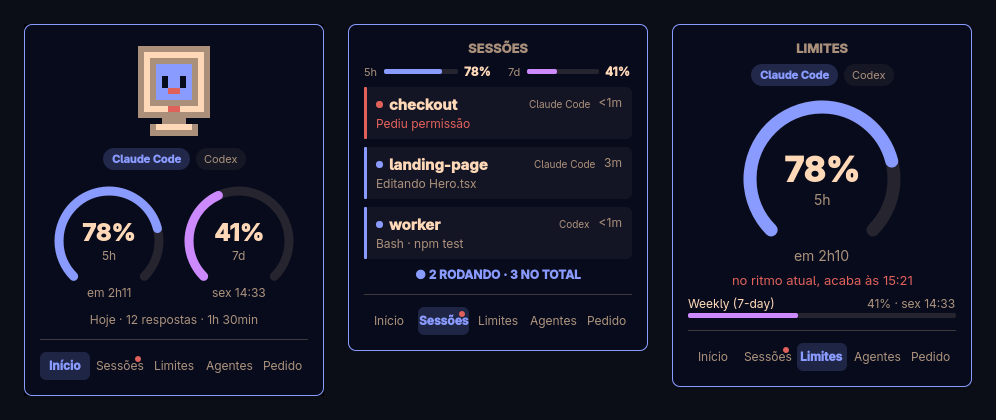
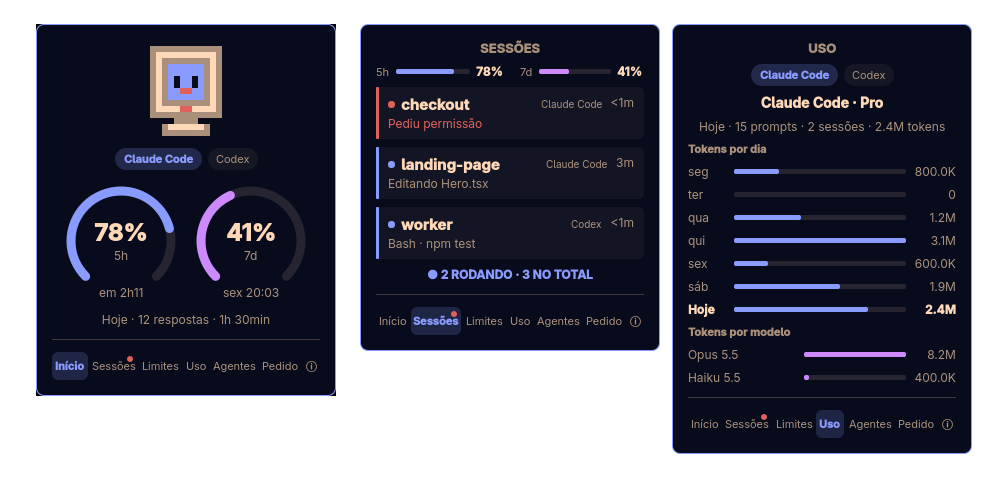
feat: renomeie para Retro Agent Pet e adicione a aba Sobre (0.2.0)
Outro plugin "Agent Pet" já está no marketplace do Omarchy; o nome visível
e o repositório mudam, o id continua o mesmo. A aba Sobre (ⓘ) lê nome,
versão, autor, licença e links do manifest e mostra os créditos.

diff --git a/Panel.qml b/Panel.qml
@@ -19,12 +19,14 @@ Panel {
   readonly property string configPath: (Quickshell.env("XDG_CONFIG_HOME") || home + "/.config") + "/agent-pet/config.json"
   property var config: ({})
   readonly property var hiddenAgents: Array.isArray(config.hidden_agents) ? config.hidden_agents : []
-  // Tela do painel: home, sessions, limits, usage, agents ou attention
+  // Tela do painel: home, sessions, limits, usage, agents, attention ou about
   property string screen: "home"
   property var sessionFiles: []
   property var sessions: []
   property var usageRecords: []
   property var daily: ({ date: "", completed_responses: 0, active_seconds: 0 })
+  // Nome, versão, autor, licença e link da tela Sobre
+  property var manifest: ({})
   property double nowMs: Date.now()
 
   readonly property color foreground: bar ? bar.foreground : Commons.Color.foreground
@@ -114,6 +116,14 @@ Panel {
     onLoaded: {
       try { root.daily = JSON.parse(String(text() || "{}")) }
       catch (error) { root.daily = ({ date: "", completed_responses: 0, active_seconds: 0 }) }
+    }
+  }
+  FileView {
+    path: Qt.resolvedUrl("manifest.json").toString().replace("file://", "")
+    printErrors: false
+    onLoaded: {
+      try { root.manifest = JSON.parse(String(text() || "{}")) || ({}) }
+      catch (error) { root.manifest = ({}) }
     }
   }
   FileView {
@@ -301,6 +311,27 @@ Panel {
   // Tokens no formato do Omarchy (1.5M); sem o Main.qml, o número cru
   function tokens(count) { return root.usage ? root.usage.formatTokenCount(Number(count || 0)) : String(Number(count || 0)) }
 
+  // Linha de crédito da tela Sobre; com url, abre no navegador ou no e-mail
+  component CreditRow: RowLayout {
+    id: credit
+    required property string label
+    required property string value
+    property string url: ""
+    Layout.fillWidth: true
+    spacing: 8
+    Text { text: credit.label; color: root.dim; font.pixelSize: 12; Layout.preferredWidth: 70 }
+    Text {
+      text: credit.value
+      color: credit.url ? Commons.Color.accent : root.foreground
+      font.pixelSize: 12
+      font.underline: credit.url !== "" && link.hovered
+      elide: Text.ElideRight
+      Layout.fillWidth: true
+      HoverHandler { id: link; enabled: credit.url !== ""; cursorShape: Qt.PointingHandCursor }
+      TapHandler { enabled: credit.url !== ""; onTapped: Qt.openUrlExternally(credit.url) }
+    }
+  }
+
   // Item do menu inferior
   component MenuItem: Item {
     id: menuItem
@@ -308,12 +339,12 @@ Panel {
     required property string label
     property bool badge: false
     readonly property bool current: root.screen === target
-    // Largura pelo texto: com 6 itens, partes iguais encostariam os rótulos longos
+    // Largura pelo texto: partes iguais encostariam os rótulos longos (Sobre é só o ícone ⓘ)
     Layout.fillWidth: true
     implicitWidth: menuLabel.implicitWidth + 8
     implicitHeight: 28
     Rectangle { anchors.fill: parent; radius: 6; color: Qt.alpha(Commons.Color.accent, menuItem.current ? 0.18 : (hover.hovered ? 0.08 : 0)) }
-    Text { id: menuLabel; anchors.centerIn: parent; text: menuItem.label; color: menuItem.current ? Commons.Color.accent : root.dim; font.pixelSize: 12; font.bold: menuItem.current }
+    Text { id: menuLabel; anchors.centerIn: parent; text: menuItem.label; color: menuItem.current ? Commons.Color.accent : root.dim; font.pixelSize: 11; font.bold: menuItem.current }
     Rectangle { visible: menuItem.badge; width: 6; height: 6; radius: 3; color: root.urgent; anchors.right: parent.right; anchors.top: parent.top; anchors.margins: 4 }
     HoverHandler { id: hover; cursorShape: Qt.PointingHandCursor }
     TapHandler { onTapped: root.screen = menuItem.target }
@@ -697,6 +728,57 @@ Panel {
           Text { text: "Agentes ocultos saem das telas de início, sessões e limites."; color: root.dim; font.pixelSize: 11; wrapMode: Text.Wrap; horizontalAlignment: Text.AlignHCenter; Layout.fillWidth: true }
         }
 
+        // Sobre: créditos do autor e do projeto
+        ColumnLayout {
+          id: aboutScreen
+          visible: root.screen === "about"
+          Layout.fillWidth: true
+          spacing: 8
+          readonly property string homepage: root.manifest.homepage || ""
+          ScreenHeader { title: "Sobre" }
+          Pet {
+            Layout.alignment: Qt.AlignHCenter
+            Layout.preferredWidth: 56
+            Layout.preferredHeight: 56
+            petState: "idle"
+            inkColor: root.surface
+            outlineColor: root.dim
+            bodyColor: root.foreground
+            faceColor: Commons.Color.accent
+            accentColor: Commons.Color.accent
+            warningColor: root.urgent
+          }
+          Text { text: root.manifest.name || "Retro Agent Pet"; color: root.foreground; font.pixelSize: 16; font.bold: true; Layout.alignment: Qt.AlignHCenter }
+          Text {
+            text: ["versão " + (root.manifest.version || "?"), root.manifest.license ? "licença " + root.manifest.license : ""].filter(function(item) { return item }).join(" · ")
+            color: root.dim
+            font.pixelSize: 12
+            Layout.alignment: Qt.AlignHCenter
+          }
+          Text {
+            text: "Acompanha as sessões do Claude Code e do Codex, os pedidos de permissão, os limites e o uso de cada agente."
+            color: root.dim
+            font.pixelSize: 11
+            wrapMode: Text.Wrap
+            horizontalAlignment: Text.AlignHCenter
+            Layout.fillWidth: true
+          }
+          Rectangle { Layout.fillWidth: true; height: 1; color: root.dim; opacity: 0.2 }
+          CreditRow { label: "Criado por"; value: root.manifest.author || "Marlon Azevedo" }
+          CreditRow { label: "E-mail"; value: "foxwnobr@gmail.com"; url: "mailto:foxwnobr@gmail.com" }
+          CreditRow { visible: aboutScreen.homepage !== ""; label: "GitHub"; value: aboutScreen.homepage.split("/")[3] || ""; url: aboutScreen.homepage.split("/").slice(0, 4).join("/") }
+          CreditRow { visible: aboutScreen.homepage !== ""; label: "Projeto"; value: aboutScreen.homepage.split("/")[4] || ""; url: aboutScreen.homepage }
+          CreditRow { visible: aboutScreen.homepage !== ""; label: "Problemas"; value: "abrir uma issue"; url: aboutScreen.homepage + "/issues" }
+          Text {
+            text: "Uso e limites: coletores do widget Agents do Omarchy. Inspirado no Mupli."
+            color: root.dim
+            font.pixelSize: 11
+            wrapMode: Text.Wrap
+            horizontalAlignment: Text.AlignHCenter
+            Layout.fillWidth: true
+          }
+        }
+
         // Menu inferior
         Rectangle { Layout.fillWidth: true; height: 1; color: root.dim; opacity: 0.35 }
         RowLayout {
@@ -708,6 +790,7 @@ Panel {
           MenuItem { target: "usage"; label: "Uso" }
           MenuItem { target: "agents"; label: "Agentes" }
           MenuItem { target: "attention"; label: "Pedido"; visible: root.attention }
+          MenuItem { target: "about"; label: "ⓘ" }
         }
       }
     }

diff --git a/testes/painel/render.qml b/testes/painel/render.qml
@@ -7,7 +7,7 @@ Window {
   width: 400; height: 700; visible: true; color: "#000"
   Loader { id: loader; source: "../../Panel.qml" }
   // "tela@agente" escolhe o agente dos gráficos
-  property var screens: ["home", "sessions", "limits", "attention", "agents", "home@codex", "limits@codex", "usage", "usage@codex"]
+  property var screens: ["home", "sessions", "limits", "attention", "agents", "home@codex", "limits@codex", "usage", "usage@codex", "about"]
   readonly property string outDir: Qt.application.arguments[Qt.application.arguments.length - 1]
   property int step: 0
   // Últimos 7 dias terminando hoje
@@ -40,6 +40,8 @@ Window {
           { session_id: "b", agent: "codex", status: "working", cwd: "/x/worker", current_tool: "Bash", tool_detail: "npm test", activity_started_at: now - 20000, updated_at: now - 1 },
           { session_id: "c", status: "attention", attention_reason: "permission", cwd: "/x/checkout", current_tool: "Bash", tool_detail: "npm run migrate", activity_started_at: now - 30000, updated_at: now - 2 } ]
         p.config = ({ hidden_agents: ["fireworks"] })
+        // O FileView de teste não lê arquivos; o manifest real vem daqui
+        p.manifest = ({ name: "Retro Agent Pet", version: "0.2.0", author: "Marlon Azevedo", license: "MIT", homepage: "https://github.com/MarlonAzevedo/omarchy-retro-agent-pet" })
         p.daily = ({ completed_responses: 12, active_seconds: 5400 })
         return
       }

diff --git a/agent_pet/hooks.py b/agent_pet/hooks.py
@@ -27,6 +27,7 @@ EVENTS = {
 AGENTS = {"claude", "codex"}
 ATTENTION_NOTIFICATIONS = {"idle_prompt", "agent_needs_input"}
 DETAIL_LIMIT = 60
+APP_NAME = "Retro Agent Pet"
 FILE_TOOLS = {"Edit": "file_path", "MultiEdit": "file_path", "Write": "file_path", "Read": "file_path", "NotebookEdit": "notebook_path"}
 PATCH_FILE = re.compile(r"^\*\*\* (?:Update|Add|Delete) File: (.+)$", re.MULTILINE)
 TEXT_TOOLS = {"Bash": "command", "Grep": "pattern", "Glob": "pattern", "WebSearch": "query", "Task": "description", "Agent": "description"}
@@ -260,7 +261,7 @@ def handle_event(event, state_root=None, config_path=None, now_ms=None, agent="c
                 if _notification_enabled(config_path):
                     tool_name = event.get("tool_name") or "Claude Code"
                     cwd = event.get("cwd") or session.get("cwd") or ""
-                    notification = ["notify-send", f"Agent Pet · {tool_name}", cwd]
+                    notification = ["notify-send", f"{APP_NAME} · {tool_name}", cwd]
             elif event_name == "Notification":
                 notification_type = event.get("notification_type")
                 if notification_type == "permission_prompt":
@@ -271,7 +272,7 @@ def handle_event(event, state_root=None, config_path=None, now_ms=None, agent="c
                 if _notification_enabled(config_path):
                     notification = [
                         "notify-send",
-                        event.get("title") or "Agent Pet",
+                        event.get("title") or APP_NAME,
                         event.get("message") or "Claude Code precisa de você",
                     ]
 

diff --git a/README.md b/README.md
@@ -1,10 +1,10 @@
-# Agent Pet
+# Retro Agent Pet
 
 **A tiny retro computer on the Omarchy bar that keeps an eye on your coding agents.**
 
-![Agent Pet panel: home with usage gauges, sessions and limits](preview.png)
+![Retro Agent Pet panel: home with usage gauges, sessions and limits](preview.png)
 
-Agent Pet watches your local **Claude Code** and **Codex** sessions and shows,
+Retro Agent Pet watches your local **Claude Code** and **Codex** sessions and shows,
 at a glance, who is working, who is waiting for you and how much of each
 agent's usage limit is left. The little computer on the bar changes face with
 the state of your sessions: it works, celebrates, sleeps, and blinks red when an
@@ -30,11 +30,12 @@ A small menu at the bottom of the panel switches between:
   the requested command (`Bash: npm run migrate`) and how long it has waited.
 - **Agentes** — every agent Omarchy tracks, with a switch to hide it (and its
   sessions and gauges) from the other screens.
+- **ⓘ Sobre** — version, license and credits: author, e-mail and project links.
 
 ## Install
 
 ```bash
-omarchy plugin add https://github.com/MarlonAzevedo/omarchy-agent-pet.git --enable
+omarchy plugin add https://github.com/MarlonAzevedo/omarchy-retro-agent-pet.git --enable
 ~/.config/omarchy/plugins/io.github.marlonazevedo.agent-pet/bin/agent-pet setup
 ```
 
@@ -108,13 +109,22 @@ hot reload keeps components it already compiled.
 
 ## Português
 
-Agent Pet é um computadorzinho na barra do Omarchy que acompanha as sessões
+Retro Agent Pet é um computadorzinho na barra do Omarchy que acompanha as sessões
 locais do Claude Code e do Codex: quem está trabalhando, quem precisa de você,
 os limites e o uso de cada agente (tokens por dia e por modelo) e o resumo do
 dia. O clique direito abre o agente padrão, e o widget Agents do Omarchy pode
 ser desativado. Instale com os dois comandos
 da seção **Install**, aprove os hooks no Codex com `/hooks` e pronto. Tudo fica
 na sua máquina.
+
+## Credits
+
+Created by **Marlon Azevedo** — <foxwnobr@gmail.com> ·
+[github.com/MarlonAzevedo](https://github.com/MarlonAzevedo).
+Bugs and ideas: [open an issue](https://github.com/MarlonAzevedo/omarchy-retro-agent-pet/issues).
+
+Usage and limits come from the collectors of Omarchy's Agents widget. Inspired
+by [Mupli](https://mupli.io).
 
 ## License
 
